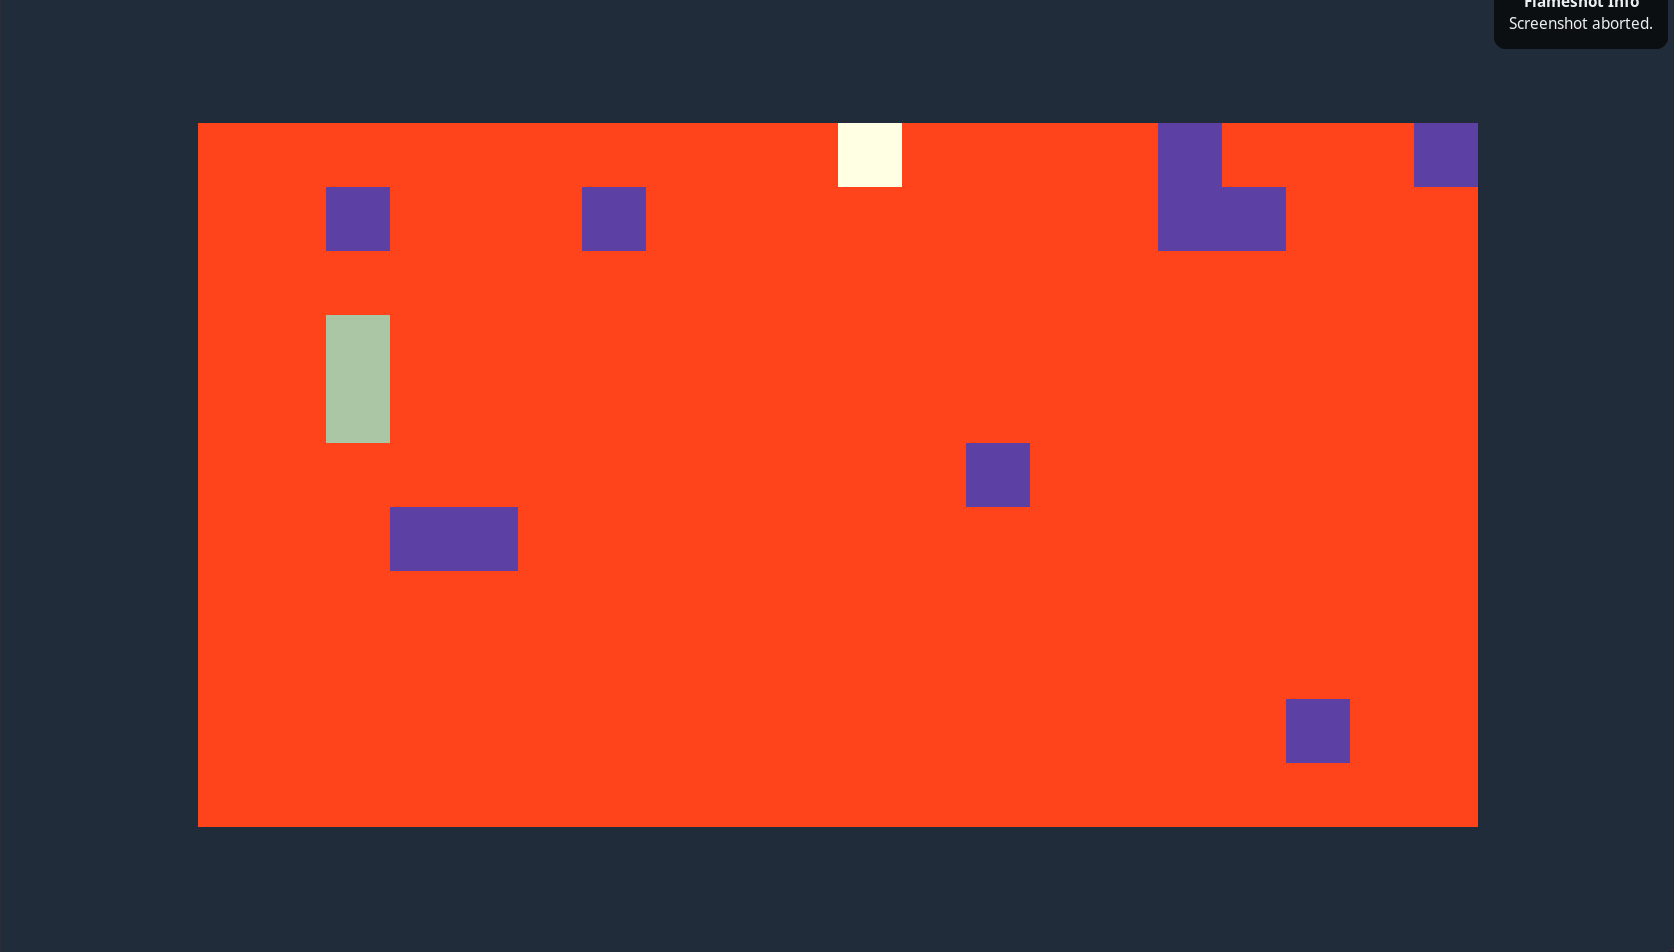
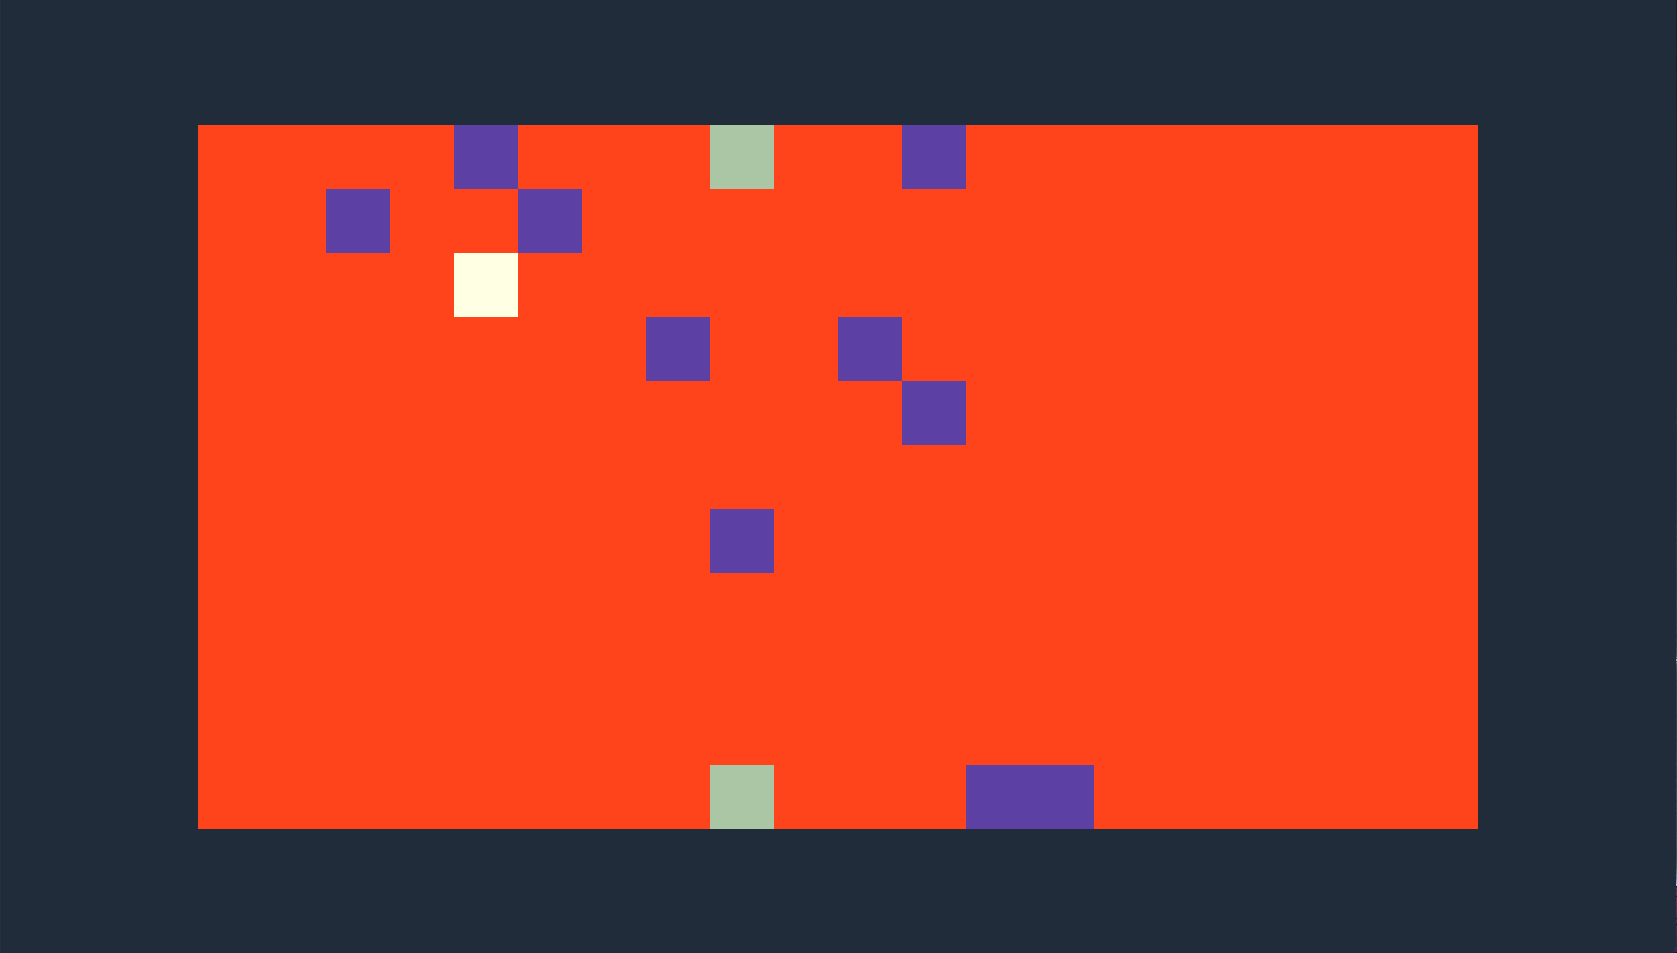
Update /Public

diff --git a/README.md b/README.md
@@ -1,6 +1,8 @@
 # SnakeJS
 
-Install `serve` by running `npm i`
+Install `serve` by running `npm i`  
 To start the server run `npm run start`
 
 ![woops, cant load image](./public/screen.png)
+
+![woops, cant load image](./public/win.png)
